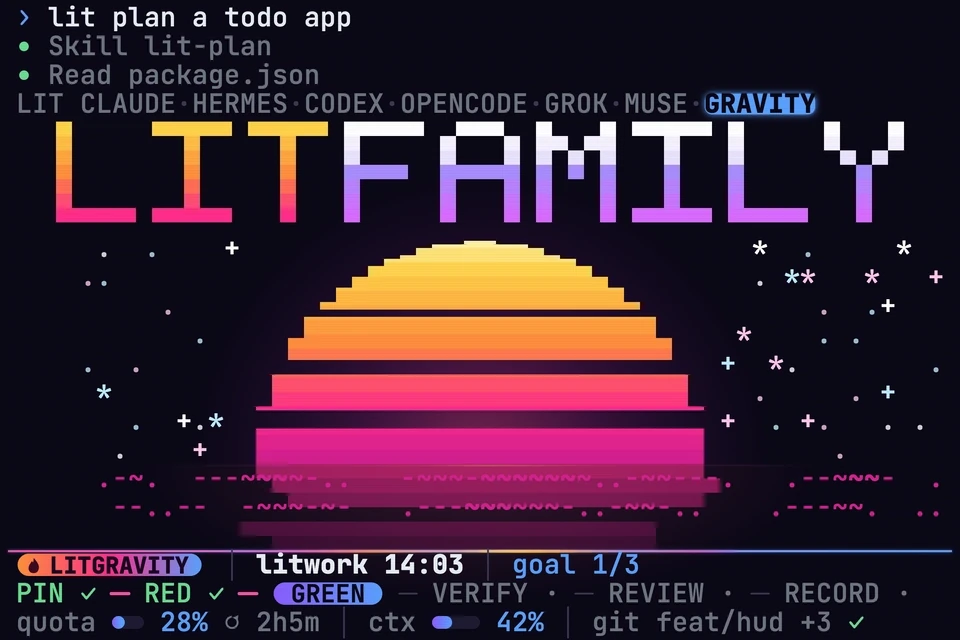
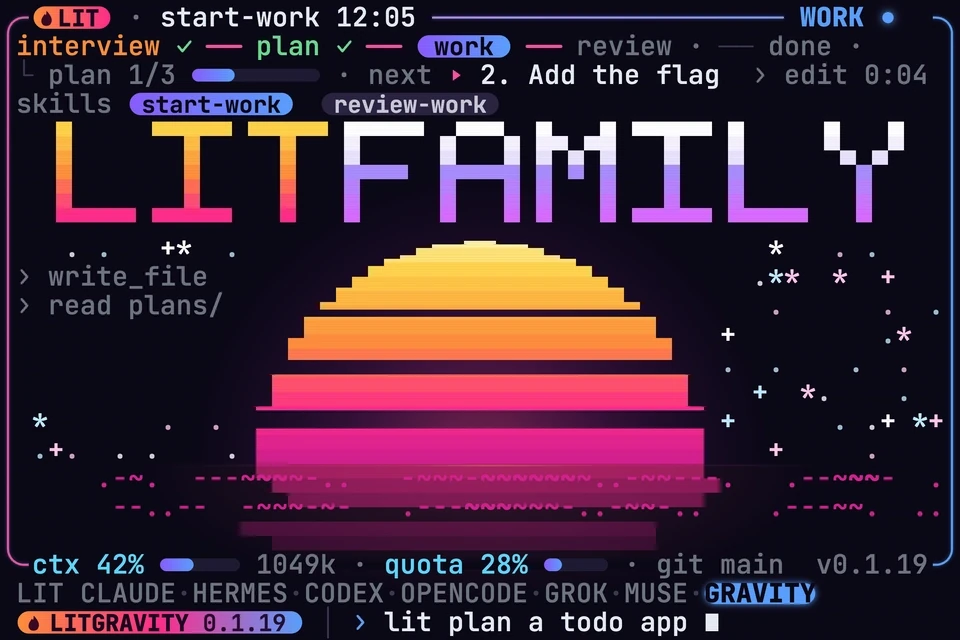
docs(readme): redraw the sunset cover and demo for the new card

diff --git a/README_ko-KR.md b/README_ko-KR.md
@@ -1,4 +1,4 @@
-<p align="center"><picture><source media="(prefers-reduced-motion: reduce)" srcset="./docs/assets/cover-motion-still.webp" /><source media="(prefers-reduced-motion: no-preference)" srcset="./docs/assets/cover-motion.webp" /><img src="./docs/assets/cover.webp" width="100%" alt="LitFamily 커버: 노을빛 터미널 화면입니다. 위쪽에는 짧은 agy 대화가 있고, 가운데는 픽셀 글자 LITFAMILY와 줄무늬 해가 채우며 일곱 제품 이름 줄에서 LITGRAVITY가 켜지고, 아래에는 LitGravity의 상태줄이 화면을 마무리합니다." /></picture></p>
+<p align="center"><picture><source media="(prefers-reduced-motion: reduce)" srcset="./docs/assets/cover-motion-still.webp" /><source media="(prefers-reduced-motion: no-preference)" srcset="./docs/assets/cover-motion.webp" /><img src="./docs/assets/cover.webp" width="100%" alt="LitFamily 커버: 노을빛 터미널 화면입니다. LitGravity의 모서리가 둥근 상태 카드가 단계 지도, 계획 게이지, 스킬 알약, 컨텍스트와 쿼터 게이지와 함께 화면을 두르고, 가운데는 픽셀 글자 LITFAMILY와 줄무늬 해가 채우며 일곱 제품 이름 줄에서 LITGRAVITY가 켜지고, 아래에서는 agy 프롬프트에 요청이 입력됩니다." /></picture></p>
 
 <h1 align="center">LitGravity</h1>
 <p align="center"><strong>Keep the work lit.</strong></p>

diff --git a/README.md b/README.md
@@ -1,4 +1,4 @@
-<p align="center"><picture><source media="(prefers-reduced-motion: reduce)" srcset="./docs/assets/cover-motion-still.webp" /><source media="(prefers-reduced-motion: no-preference)" srcset="./docs/assets/cover-motion.webp" /><img src="./docs/assets/cover.webp" width="100%" alt="LitFamily cover: a terminal in a sunset look. A short agy conversation sits at the top, a pixel LITFAMILY wordmark and a striped half-sunk sun fill the middle with the row of seven product names lighting LITGRAVITY, and LitGravity's status line closes the screen at the bottom." /></picture></p>
+<p align="center"><picture><source media="(prefers-reduced-motion: reduce)" srcset="./docs/assets/cover-motion-still.webp" /><source media="(prefers-reduced-motion: no-preference)" srcset="./docs/assets/cover-motion.webp" /><img src="./docs/assets/cover.webp" width="100%" alt="LitFamily cover: a terminal in a sunset look. LitGravity's round-cornered status card frames the screen with its stage map, plan gauge, skill pills, and context and quota gauges, a pixel LITFAMILY wordmark and a striped half-sunk sun fill the middle, the row of seven product names lights LITGRAVITY, and an agy prompt types a request at the bottom." /></picture></p>
 
 <h1 align="center">LitGravity</h1>
 <p align="center"><strong>Keep the work lit.</strong></p>
